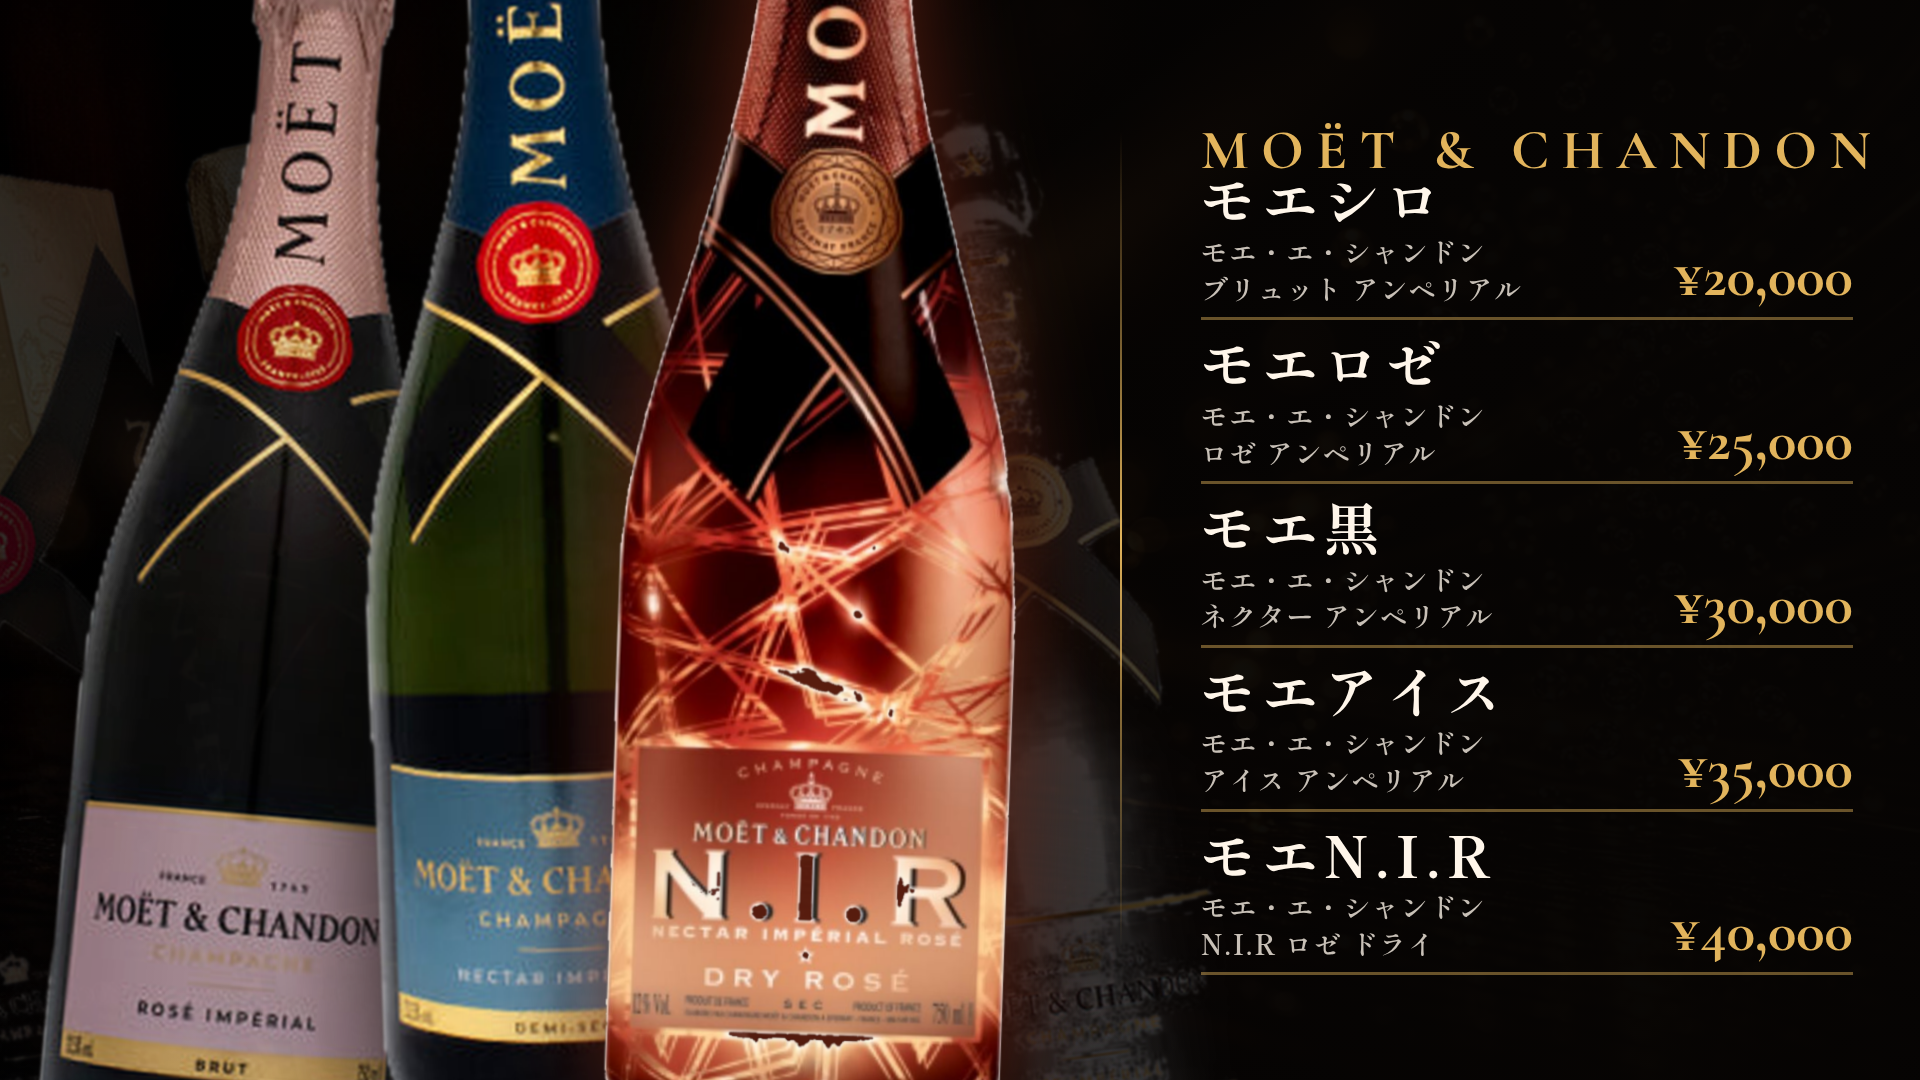
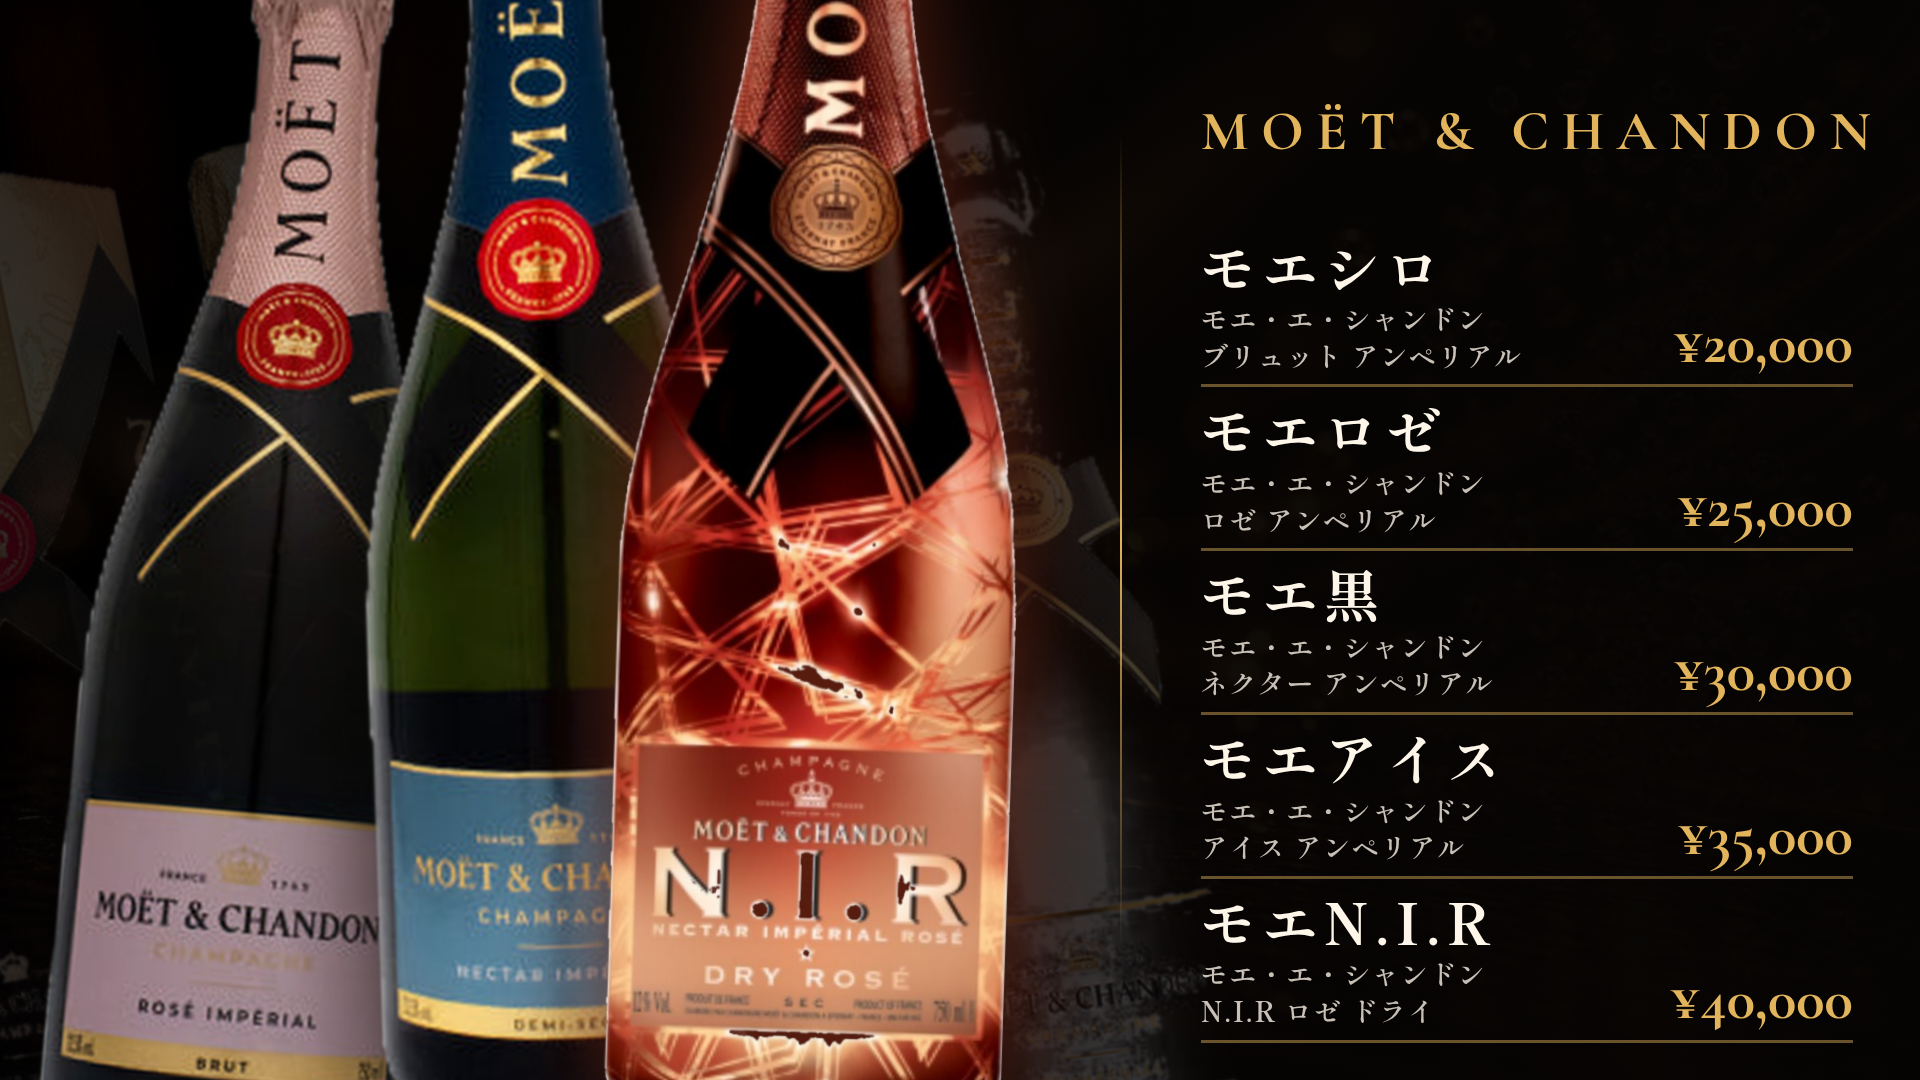
Center Design 19 title in the upper blank zone
Put MOËT & CHANDON in a dedicated top band so it sits mid-blank above the menu, not glued to the list.

diff --git a/designs/19-trio-focus.css b/designs/19-trio-focus.css
@@ -9,9 +9,10 @@
 .b4{z-index:5;animation:driftD 7.2s ease-in-out infinite}
 .b5{z-index:4;animation:driftE 9s ease-in-out infinite}
 
-.panel{position:absolute;right:0;top:0;bottom:0;width:min(56vw,800px);z-index:3;padding:3.5vh 3.5vw;display:flex;flex-direction:column;justify-content:center;padding-left:4.2vw}
-.panel .title{position:absolute;left:4.2vw;right:3.5vw;top:14%;margin:0;transform:translateY(-50%)}
-.list{margin-top:6vh;display:flex;flex-direction:column;gap:1.2vh}
+.panel{position:absolute;right:0;top:0;bottom:0;width:min(56vw,800px);z-index:3;padding:0 3.5vw 6vh 4.2vw;display:flex;flex-direction:column}
+.panel .title-zone{flex:0 0 26%;display:flex;align-items:center;min-height:0}
+.panel .title{position:static;margin:0;transform:none;left:auto;right:auto;top:auto}
+.list{flex:1;margin-top:0;display:flex;flex-direction:column;justify-content:center;gap:1.2vh;min-height:0}
 .row{display:flex;justify-content:space-between;align-items:flex-end;gap:1rem;border-bottom:3px solid rgba(226,180,92,.45);padding-bottom:1vh}
 .is-hot{border-bottom-color:var(--gold2)}
 .panel::before{content:"";position:absolute;left:0;top:12%;bottom:12%;width:2px;background:linear-gradient(180deg,transparent,var(--gold),transparent)}

diff --git a/designs/19-trio-focus.html b/designs/19-trio-focus.html
@@ -19,7 +19,7 @@
 <img class="b b5" src="../assets/moet/cut/ice.png" alt=""/>
 </div>
 <div class="panel">
-<h1 class="title">MOËT &amp; CHANDON</h1>
+<div class="title-zone"><h1 class="title">MOËT &amp; CHANDON</h1></div>
 <div class="list"><div class="row"><div><p class="nick">モエシロ</p><p class="formal">モエ・エ・シャンドン<br>ブリュット アンペリアル</p></div><p class="price">¥20,000</p></div><div class="row"><div><p class="nick">モエロゼ</p><p class="formal">モエ・エ・シャンドン<br>ロゼ アンペリアル</p></div><p class="price">¥25,000</p></div><div class="row"><div><p class="nick">モエ黒</p><p class="formal">モエ・エ・シャンドン<br>ネクター アンペリアル</p></div><p class="price">¥30,000</p></div><div class="row"><div><p class="nick">モエアイス</p><p class="formal">モエ・エ・シャンドン<br>アイス アンペリアル</p></div><p class="price">¥35,000</p></div><div class="row"><div><p class="nick">モエN.I.R</p><p class="formal">モエ・エ・シャンドン<br>N.I.R ロゼ ドライ</p></div><p class="price">¥40,000</p></div></div>
 </div>
 </div>
